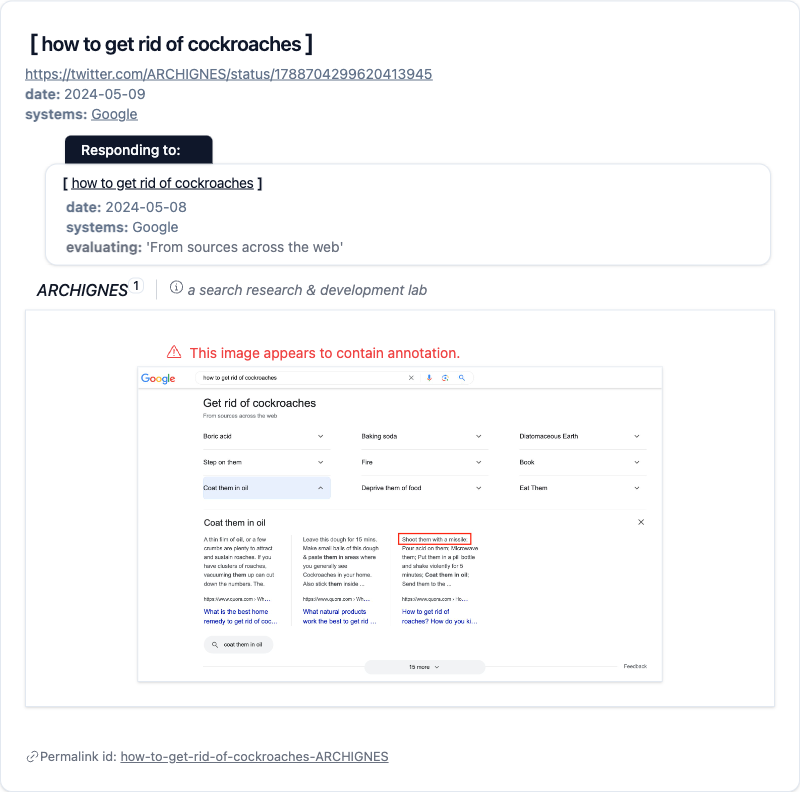
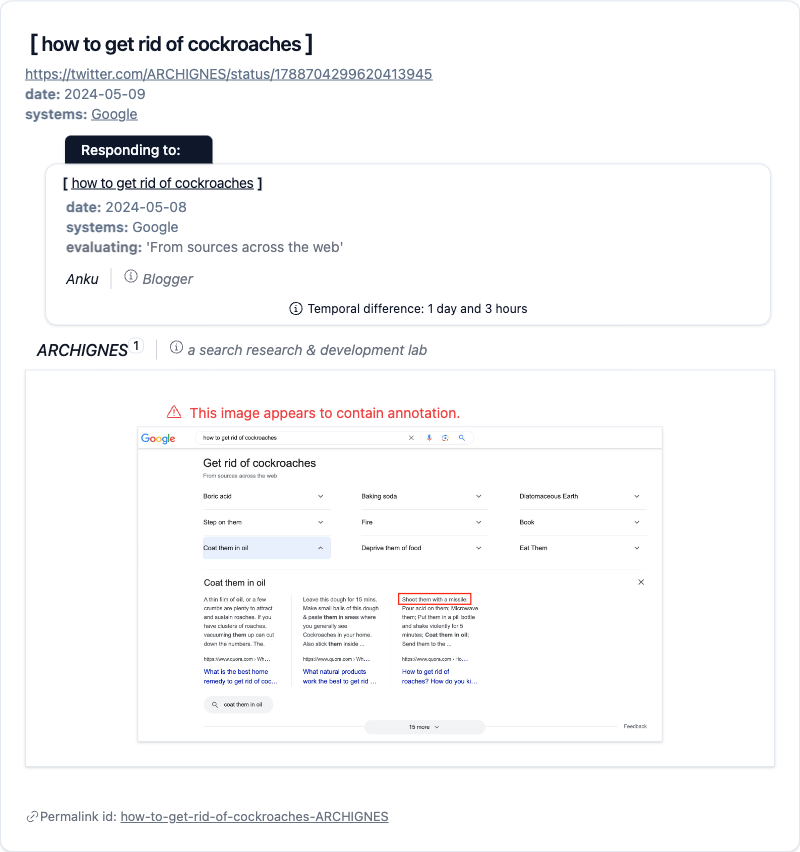
fix missing eval details in MiniEvalCard

diff --git a/src/components/MiniEvalCard.tsx b/src/components/MiniEvalCard.tsx
@@ -10,7 +10,8 @@ import { EvalItem } from '@/src/types/evalItem';
 import { EvaluationTarget } from './eval-card-elements';
 import { conflictType } from '@/src/types/';
 import SearchBracket from './SearchBracket'
-import { InfoCircledIcon, DrawingPinIcon, ExclamationTriangleIcon, StackIcon } from "@radix-ui/react-icons"
+import { InfoCircledIcon, DrawingPinIcon, ExclamationTriangleIcon } from "@radix-ui/react-icons"
+import { CheckQueryConsistency, CheckTemporalDifference } from './EvalComparisonChecks';
 import Link from 'next/link'
 import {
   Card,
@@ -20,7 +21,12 @@ import {
   CardHeader,
   CardTitle,
 } from './ui/card';
-
+import {
+  Tooltip,
+  TooltipContent,
+  TooltipProvider,
+  TooltipTrigger,
+} from "./ui/tooltip"
 import { ReplicationRerouteCheck } from './eval-card-elements/ReplicationRerouteCheck'
 
 export interface MiniEvalCardProps {
@@ -122,6 +128,52 @@ export const MiniEvalCard: React.FC<MiniEvalCardProps> = ({
           <span className="border border-red-500 bg-red-100 font-semibold p-2 w-fit ml-4 text-xs text-center"><ExclamationTriangleIcon className="h-4 w-4 text-red-400 inline mr-1" />This image is likely fabricated.</span>
         )}
         <ReplicationRerouteCheck evalItem={evalItem} />
+        <CardContent className='p-1 py-0'>
+          {!currentEvaluator && evalEvaluatorDetails && (
+            <figcaption className="mt-1 mb-2">
+              <div className="flex items-center divide-x rtl:divide-x-reverse divide-gray-300 dark:divide-gray-700">
+                <cite id="person-name" className={`pe-3 ml-3 ${textSizeClass} text-gray-900 dark:text-white`}>{evalEvaluatorDetails.name}</cite>
+                <cite className={`ps-3 ${textSizeClass} text-gray-500 dark:text-gray-400`}>
+                  <span id="person-info-link" className="inline-flex"><a href={evalEvaluatorDetails.URL} target="_blank" rel="noopener noreferrer"><InfoCircledIcon /></a></span>
+                  <span id="person-role" className="ml-1">{evalEvaluatorDetails.role}</span>
+                  {conflicts && conflicts.length > 0 && (
+                    <><br></br>
+                      <TooltipProvider>
+                        <Tooltip>
+                          <TooltipTrigger><span className="inline-flex"><DrawingPinIcon /></span></TooltipTrigger>
+                          <TooltipContent>
+                            <p>This evaluator has a potential conflict-of-interest due to their relationship with the entities pinned to the right.</p>
+                          </TooltipContent>
+                        </Tooltip>
+                      </TooltipProvider>
+                      {conflicts.map((conflict, index) => (
+                        <React.Fragment key={index}>
+                          <TooltipProvider>
+                            <Tooltip>
+                              <TooltipTrigger><a className="underline ml-1" href={conflict.searchLink.replace('%s', encodeURIComponent(conflict.query).replace(/%20/g, '+'))} target="_blank" rel="noopener noreferrer">
+                                {conflict.name}
+                              </a>
+                                {index < conflicts.length - 1 ? ', ' : ''}</TooltipTrigger>
+                              <TooltipContent >
+                                {conflict.queryTooltip}
+                              </TooltipContent>
+                            </Tooltip>
+                          </TooltipProvider>
+                        </React.Fragment>
+                      ))}
+                    </>)}
+                </cite>
+              </div>
+            </figcaption>
+          )}
+        </CardContent>
+        {checks && currentEvaluation &&
+          (<CardFooter className="flex flex-col space-y-1 p-1 pt-0 w-full">
+            <CheckTemporalDifference evalItemId={evalItemId} currentEvaluation={currentEvaluation} />
+            <CheckQueryConsistency evalItemId={evalItemId} currentEvaluation={currentEvaluation} />
+          </CardFooter>
+          )
+        }
       </div>
       {evalPlacement === "feed" && images && images.length > 0 && (
         <div

diff --git a/src/components/Footer.tsx b/src/components/Footer.tsx
@@ -2,7 +2,7 @@ import { GitHubLogoIcon, TwitterLogoIcon, LinkedInLogoIcon } from '@radix-ui/rea
 import { Button } from "./ui/button";
 import { Input } from "./ui/input";
 
-const lastUpdated = "2024-06-06T05:44:30.679Z";
+const lastUpdated = "2024-06-06T06:00:44.233Z";
 
 const Footer: React.FC = () => {
   return (
